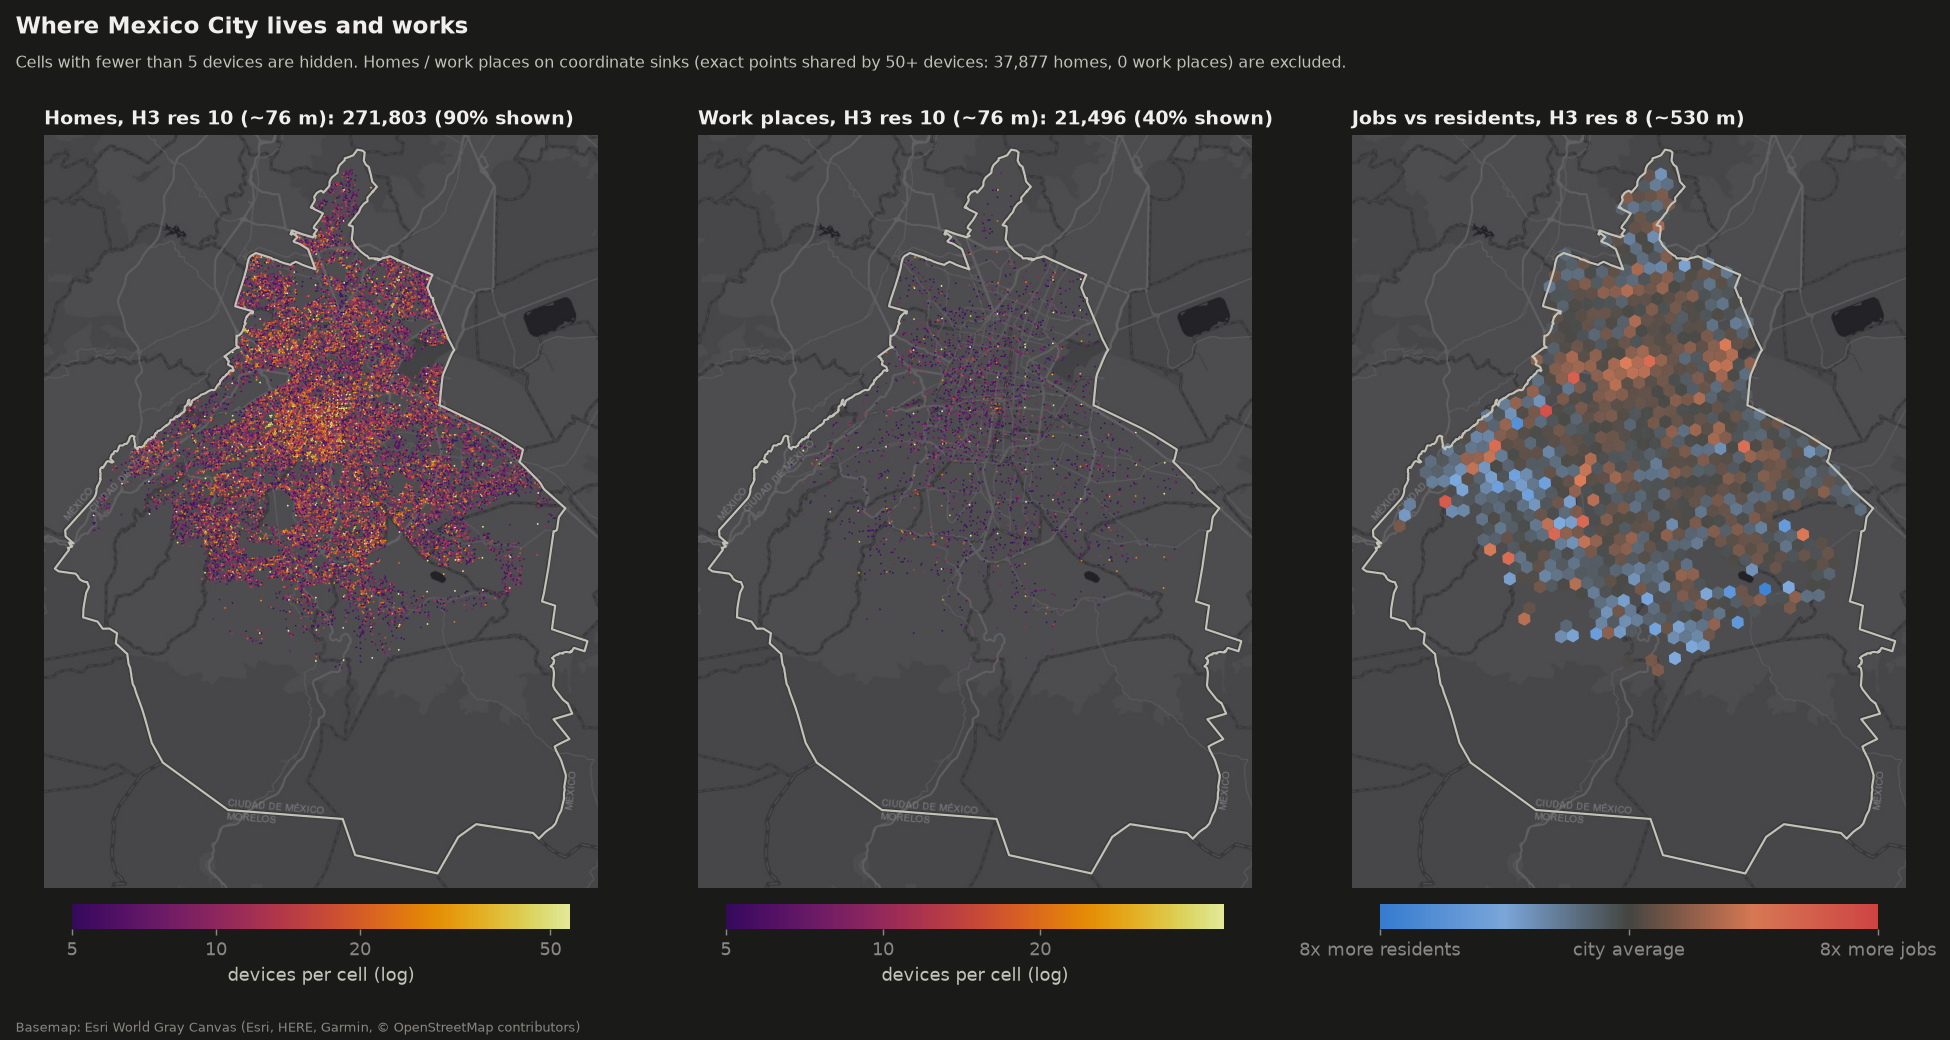
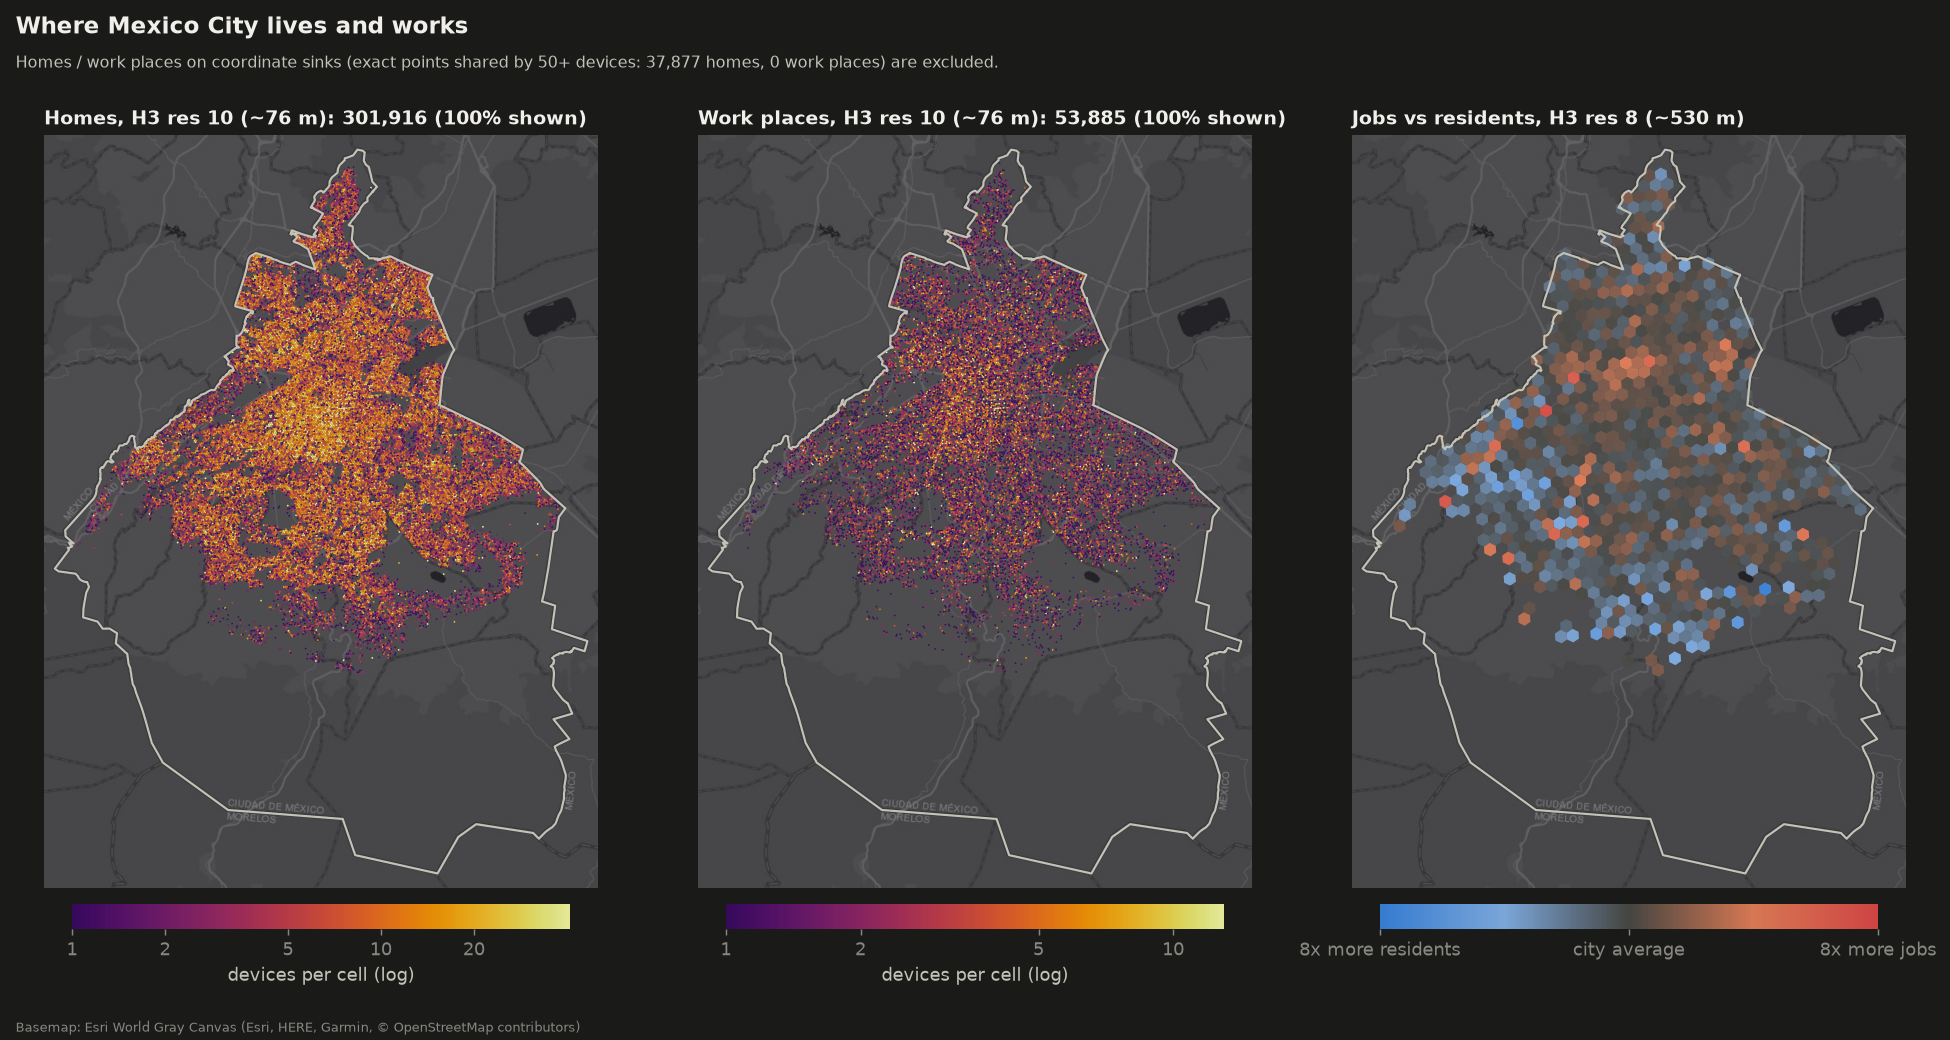
H3 maps show every cell (no small-cell suppression in the figures)

diff --git a/examples/mexico_city_figures.py b/examples/mexico_city_figures.py
@@ -196,7 +196,7 @@ def hexes(cells: pl.DataFrame):
 
 def count_ticks(cb, vmin, vmax):
     """Plain round-number ticks on a log colorbar."""
-    ticks = [v for v in (5, 10, 20, 50, 100, 200, 500, 1000) if vmin <= v <= vmax]
+    ticks = [v for v in (1, 2, 5, 10, 20, 50, 100, 200, 500, 1000) if vmin <= v <= vmax]
     cb.set_ticks(ticks, labels=[str(v) for v in ticks])
     cb.minorticks_off()
 
@@ -239,7 +239,7 @@ def clean_locations(loc, min_devices=50):
     return out, int(hs["devices"].sum()), int(ws["devices"].sum())
 
 
-def fig_h3(loc, t, path, k=5):
+def fig_h3(loc, t, path, k=1):
     seq = hot_cmap()
     div = LinearSegmentedColormap.from_list(
         "div", ["#3987e5", "#86b6ef", "#f0efec" if t is THEMES["light"] else "#4a4a46", "#ec835a", "#e34948"])
@@ -247,7 +247,8 @@ def fig_h3(loc, t, path, k=5):
     h10 = pr.home_work_h3(loc, 10, min_count=k, geometry=False).drop_nulls("homes")
     w10 = pr.home_work_h3(loc, 10, min_count=k, geometry=False).drop_nulls("workers")
     n_h, n_w = loc["home_latitude"].is_not_null().sum(), loc["work_latitude"].is_not_null().sum()
-    b8 = pr.home_work_h3(loc, 8, min_count=k, geometry=False).drop_nulls(["homes", "workers"])
+    # ratios of tiny counts are noise: compare cells with at least 5 homes and 5 workers
+    b8 = pr.home_work_h3(loc, 8, min_count=5, geometry=False).drop_nulls(["homes", "workers"])
     H, W = b8["homes"].sum(), b8["workers"].sum()
     bal = np.log2((b8["workers"].to_numpy() / W) / (b8["homes"].to_numpy() / H))
 
@@ -274,7 +275,8 @@ def fig_h3(loc, t, path, k=5):
             count_ticks(cb, norm.vmin, norm.vmax)
     fig.suptitle("Where Mexico City lives and works", x=0.008, y=0.985, ha="left", fontsize=13, fontweight="bold",
                  color=t["ink"])
-    fig.text(0.008, 0.935, f"Cells with fewer than {k} devices are hidden. Homes / work places on coordinate sinks "
+    hidden = f"Cells with fewer than {k} devices are hidden. " if k > 1 else ""
+    fig.text(0.008, 0.935, f"{hidden}Homes / work places on coordinate sinks "
              f"(exact points shared by 50+ devices: {nh:,} homes, {nw:,} work places) are excluded.",
              fontsize=9, color=t["ink2"])
     fig.text(0.008, 0.008, ATTRIBUTION, fontsize=7, color=t["muted"])

diff --git a/docs/guide/spatial.md b/docs/guide/spatial.md
@@ -21,15 +21,13 @@ gdf = gpd.GeoDataFrame(cells.to_pandas(), geometry=gpd.GeoSeries.from_wkt(cells[
                        crs="EPSG:4326")
 ```
 
-## k-anonymity
+## Suppressing small cells (optional)
 
-Fine resolutions isolate individuals: at resolution 10 a cell can hold a single home. **Cells
-with fewer than `min_count` devices (default 5) are dropped.** In `home_work_h3`, a count below
-`min_count` is set to null, and the cell is dropped when both counts are null.
-`min_count=1` disables the protection, for internal use only.
-
-How much survives depends on resolution and density. In one month of Mexico City (302k homes
-and 53.9k work places after removing coordinate sinks), with k = 5:
+`home_work_h3` and `h3_counts` drop cells with fewer than `min_count` devices, 5 by default. This
+is a guard for publishing fine-grained counts of very sparse data. Pass `min_count=1` to keep
+every cell; the Mexico City maps below do, since they show only per-hexagon counts with no
+identifiers. At k = 5, the share of devices that would survive in one month of Mexico City (302k
+homes, 53.9k work places):
 
 | H3 res | Hexagon edge | Homes kept | Workers kept |
 |---|---|---|---|
@@ -38,12 +36,10 @@ and 53.9k work places after removing coordinate sinks), with k = 5:
 | 10 | ~76 m | 90% | 40% |
 | 11 | ~29 m | 58% | 18% |
 
-Homes support block-level maps (res 10–11). Work places are far fewer: at res 10 the map keeps
-only the densest job areas (40% of workers), and res 9 shows 91%.
-
 ![Homes, work places and jobs vs residents in Mexico City](../assets/figures/cdmx_h3.png)
 
-The right panel compares jobs with residents per res-8 cell. It plots
+The right panel compares jobs with residents per res-8 cell, only where both counts are at
+least 5 (ratios of tiny counts are noise). It plots
 \(\log_2\big((\text{workers}_c / W) / (\text{homes}_c / H)\big)\), where \(W\) and \(H\) are
 the city totals: red cells have more jobs than residents relative to the city, blue cells the
 opposite. A coarse resolution keeps both counts above k everywhere. At finer resolutions,

diff --git a/docs/examples/mexico-city.md b/docs/examples/mexico-city.md
@@ -60,8 +60,8 @@ Counts per ~150 m cell, log scale:
 
 ## Homes and work places on H3
 
-Fine-grained, k-anonymous heat maps with [H3](../guide/spatial.md): cells with fewer than 5
-devices are hidden.
+Fine-grained heat maps with [H3](../guide/spatial.md): counts of homes and work places per
+hexagon, with no identifiers, so every cell is shown (`min_count=1`).
 
 ```python
 cells = pipe.locations_h3(resolution=10)          # or pr.home_work_h3(locations, 10)
@@ -69,13 +69,13 @@ cells = pipe.locations_h3(resolution=10)          # or pr.home_work_h3(locations
 
 ![Homes, work places and jobs vs residents on H3](../assets/figures/cdmx_h3.png)
 
-Homes and work places are both at block level (res 10, ~76 m), and each panel title says
-what share of devices is shown. Homes cover the residential city (90% shown). Work places are
-far fewer: at res 10 only 40% fall in cells with at least 5 workers, so the map keeps the
-densest job areas. Use res 9 (91% shown) for a fuller picture. The jobs-vs-residents panel
-stays at res 8, where both counts clear k everywhere. It shows the job-rich center against the
-residential periphery. With one month of data (7 / 4 day thresholds), about one device in six
-with a home also has a work place. Click any figure to enlarge it.
+Homes and work places are both at block level (res 10, ~76 m). Homes cover the residential
+city; work places concentrate in the center and along the main corridors. The jobs-vs-residents
+panel (res 8) compares only cells with at least 5 homes and 5 work places: that is for
+statistical stability (a ratio of 2 workers to 1 home is noise), not privacy. It shows the
+job-rich center against the residential periphery. With one month of data (7 / 4 day
+thresholds), about one device in six with a home also has a work place. Click any figure to
+enlarge it.
 
 ## Trajectories
 

diff --git a/README.md b/README.md
@@ -16,7 +16,7 @@ PolaRoam turns raw location pings (LBS / GPS) into:
 - **stays**;
 - **trajectories with speeds and transport mode**;
 - recurrent **places**;
-- **home / work** locations, with k-anonymous **H3 heat maps**.
+- **home / work** locations, with **H3 heat maps**.
 
 It uses pure, vectorized [Polars](https://pola.rs): no per-device Python loops. It runs all at
 once or day by day, on CPU or CUDA, and follows the logic of the gc-lbs BigQuery pipeline.
